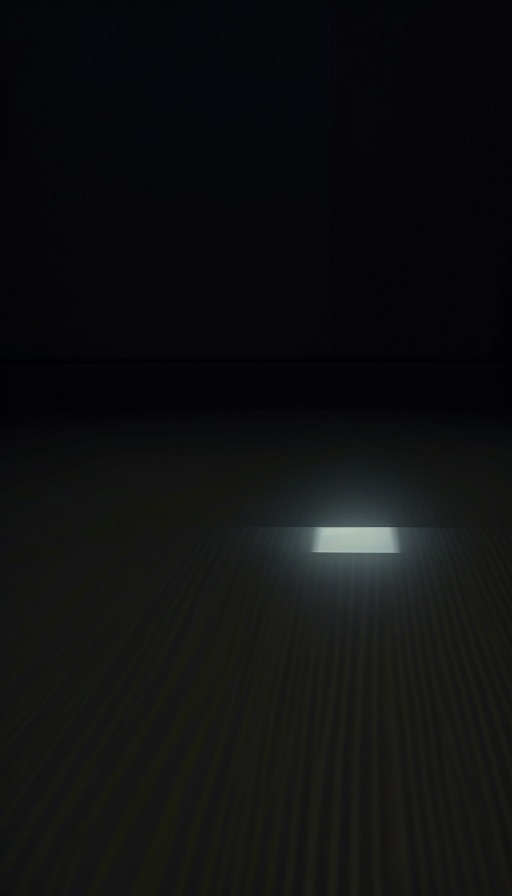
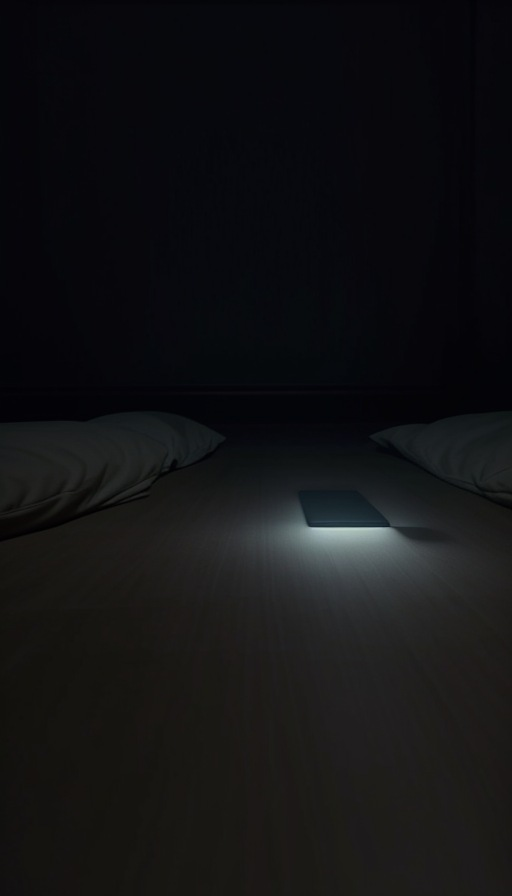
Milo #1 shots picked; Turbo pace check relaxed for emotional reads (clarity and tag sounds stay strict)
Claude-Session: https://claude.ai/code/session_011eLEn9HbPwBg7ViAYhwmQ5

Changed region(s): [[0.4375, 0.5312, 0.8438, 0.625]]

diff --git a/videos/milo_sweetie.py b/videos/milo_sweetie.py
@@ -70,7 +70,7 @@ def plan(tl):
         (A("b5"), S["doorway"], P(dict(focus=(0.5, 0.4), zoom=(1.0, 1.08)))),
         (A("b6"), S["woman"], P(dict(focus=(0.5, 0.3), zoom=(1.05, 1.3), shake=0.25))),
         (A("b7"), S["foot"], P(dict(focus=(0.5, 0.6)))),
-        (A("b7", "coming"), S["woman"], dict(move="push", zoom=(1.35, 1.5), focus=(0.5, 0.3), shake=0.15)),
+        (A("b7", "coming"), "v1_06_woman_b", dict(move="push", zoom=(1.35, 1.5), focus=(0.5, 0.3), shake=0.15)),
         (A("b8"), S["lock"], P(dict(focus=(0.5, 0.5), shake=0.2))),
         (A("b8", "call"), S["face"], dict(move="hold", zoom=(1.25, 1.27), bright=0.45)),
         (A("b9"), S["underbed"], P(dict(focus=(0.65, 0.6), zoom=(1.04, 1.3), shake=0.1))),

diff --git a/motion/voice.py b/motion/voice.py
@@ -545,6 +545,8 @@ def clone_check(takes, tries=3, slack=0.15):
     import shutil
     import soundfile
     takes = list(dict.fromkeys(tuple(x) + (None,) * (3 - len(x)) for x in takes))
+    if CLONE_MODEL == "turbo":   # Turbo's pace varies with emotion; clarity and tag sounds stay strict, pace less so
+        slack = max(slack, 0.3)
     tries = tries + 2 if any(_has_sound(t) for t, _, _ in takes) else tries
     todo = [(t, p, w) for t, p, w in takes if t not in _EXTERNAL and not os.path.exists(_clone_raw(t, w) + ".ok")]
     if not todo:
